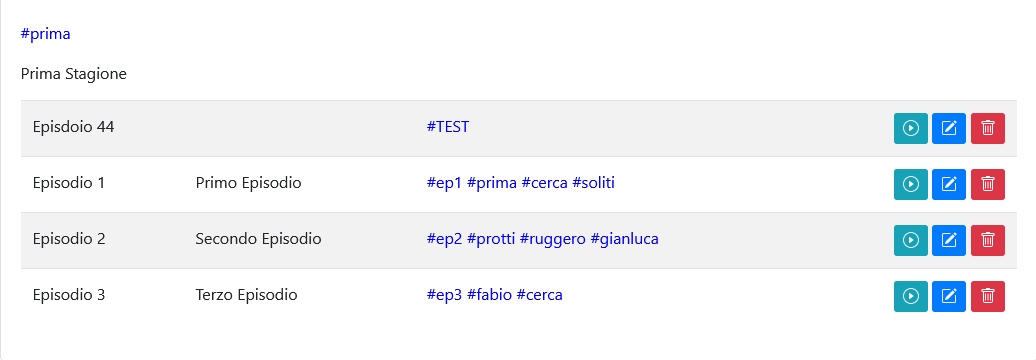
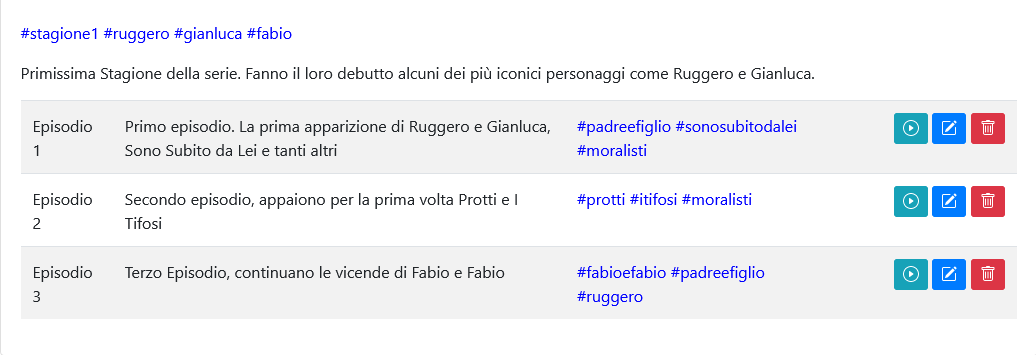
Aggiornate Foto
Aggiornate foto per HomePage.
Scelta dimenzione per i bottoni funzione degli episodi.

Fix #9

diff --git a/client/static/js/utils.js b/client/static/js/utils.js
@@ -57,7 +57,7 @@ function plot_episodi(episodi) {
         var nome = $('<td>').text(element.nome);
         var descrizione = $('<td>').text(element.descrizione);
         var tag = $('<td class="tag">').text(element.tag);
-        var play = $('<td class="rigthalign">')
+        var play = $('<td class="rigthalign func-buttons">')
             .append(
                 $('<a class="btn btn-sm btn-info" target="_blank">')    // bottone PLAY
                     .attr('href', `${server_ip}/play/${element.id}`)

diff --git a/client/static/css/main.css b/client/static/css/main.css
@@ -19,6 +19,9 @@
     cursor: pointer;
 }
 
+.func-buttons {
+    width: 20%;
+}
 nav {
     background-color: #F0F0F0;
 }
